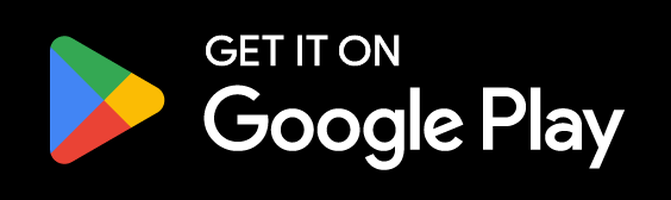
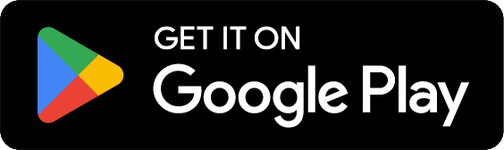
Rounded high-res store badges

diff --git a/index.html b/index.html
@@ -20,7 +20,7 @@
     <li>أوتلوك ← الإعدادات ← التوقيع ← الصق</li>
   </ol>
   <button id="cp" style="display:block;width:100%;padding:16px;margin:0 0 16px;font-size:18px;font-weight:bold;color:#fff;background:#2563eb;border:0;border-radius:10px;font-family:inherit">انسخ الزرين</button>
-  <div class="copy" id="btns"><a href="https://apps.apple.com/app/onsta/id6801993828"><img src="https://hasanainhelcoo.github.io/onsta-email-assets/app-store.png" alt="Download on the App Store" width="135" height="45" style="border:0;width:135px;height:45px"></a>&nbsp;<a href="https://play.google.com/store/apps/details?id=ae.onsta.app"><img src="https://hasanainhelcoo.github.io/onsta-email-assets/google-play.png" alt="Get it on Google Play" width="151" height="45" style="border:0;width:151px;height:45px"></a></div>
+  <div class="copy" id="btns"><a href="https://apps.apple.com/app/onsta/id6801993828"><img src="https://hasanainhelcoo.github.io/onsta-email-assets/app-store.png?v=2" alt="Download on the App Store" width="132" height="44" style="border:0;width:132px;height:44px"></a>&nbsp;<a href="https://play.google.com/store/apps/details?id=ae.onsta.app"><img src="https://hasanainhelcoo.github.io/onsta-email-assets/google-play.png?v=2" alt="Get it on Google Play" width="148" height="44" style="border:0;width:148px;height:44px"></a></div>
 </div>
 <script>
 document.getElementById('cp').addEventListener('click', async function () {
